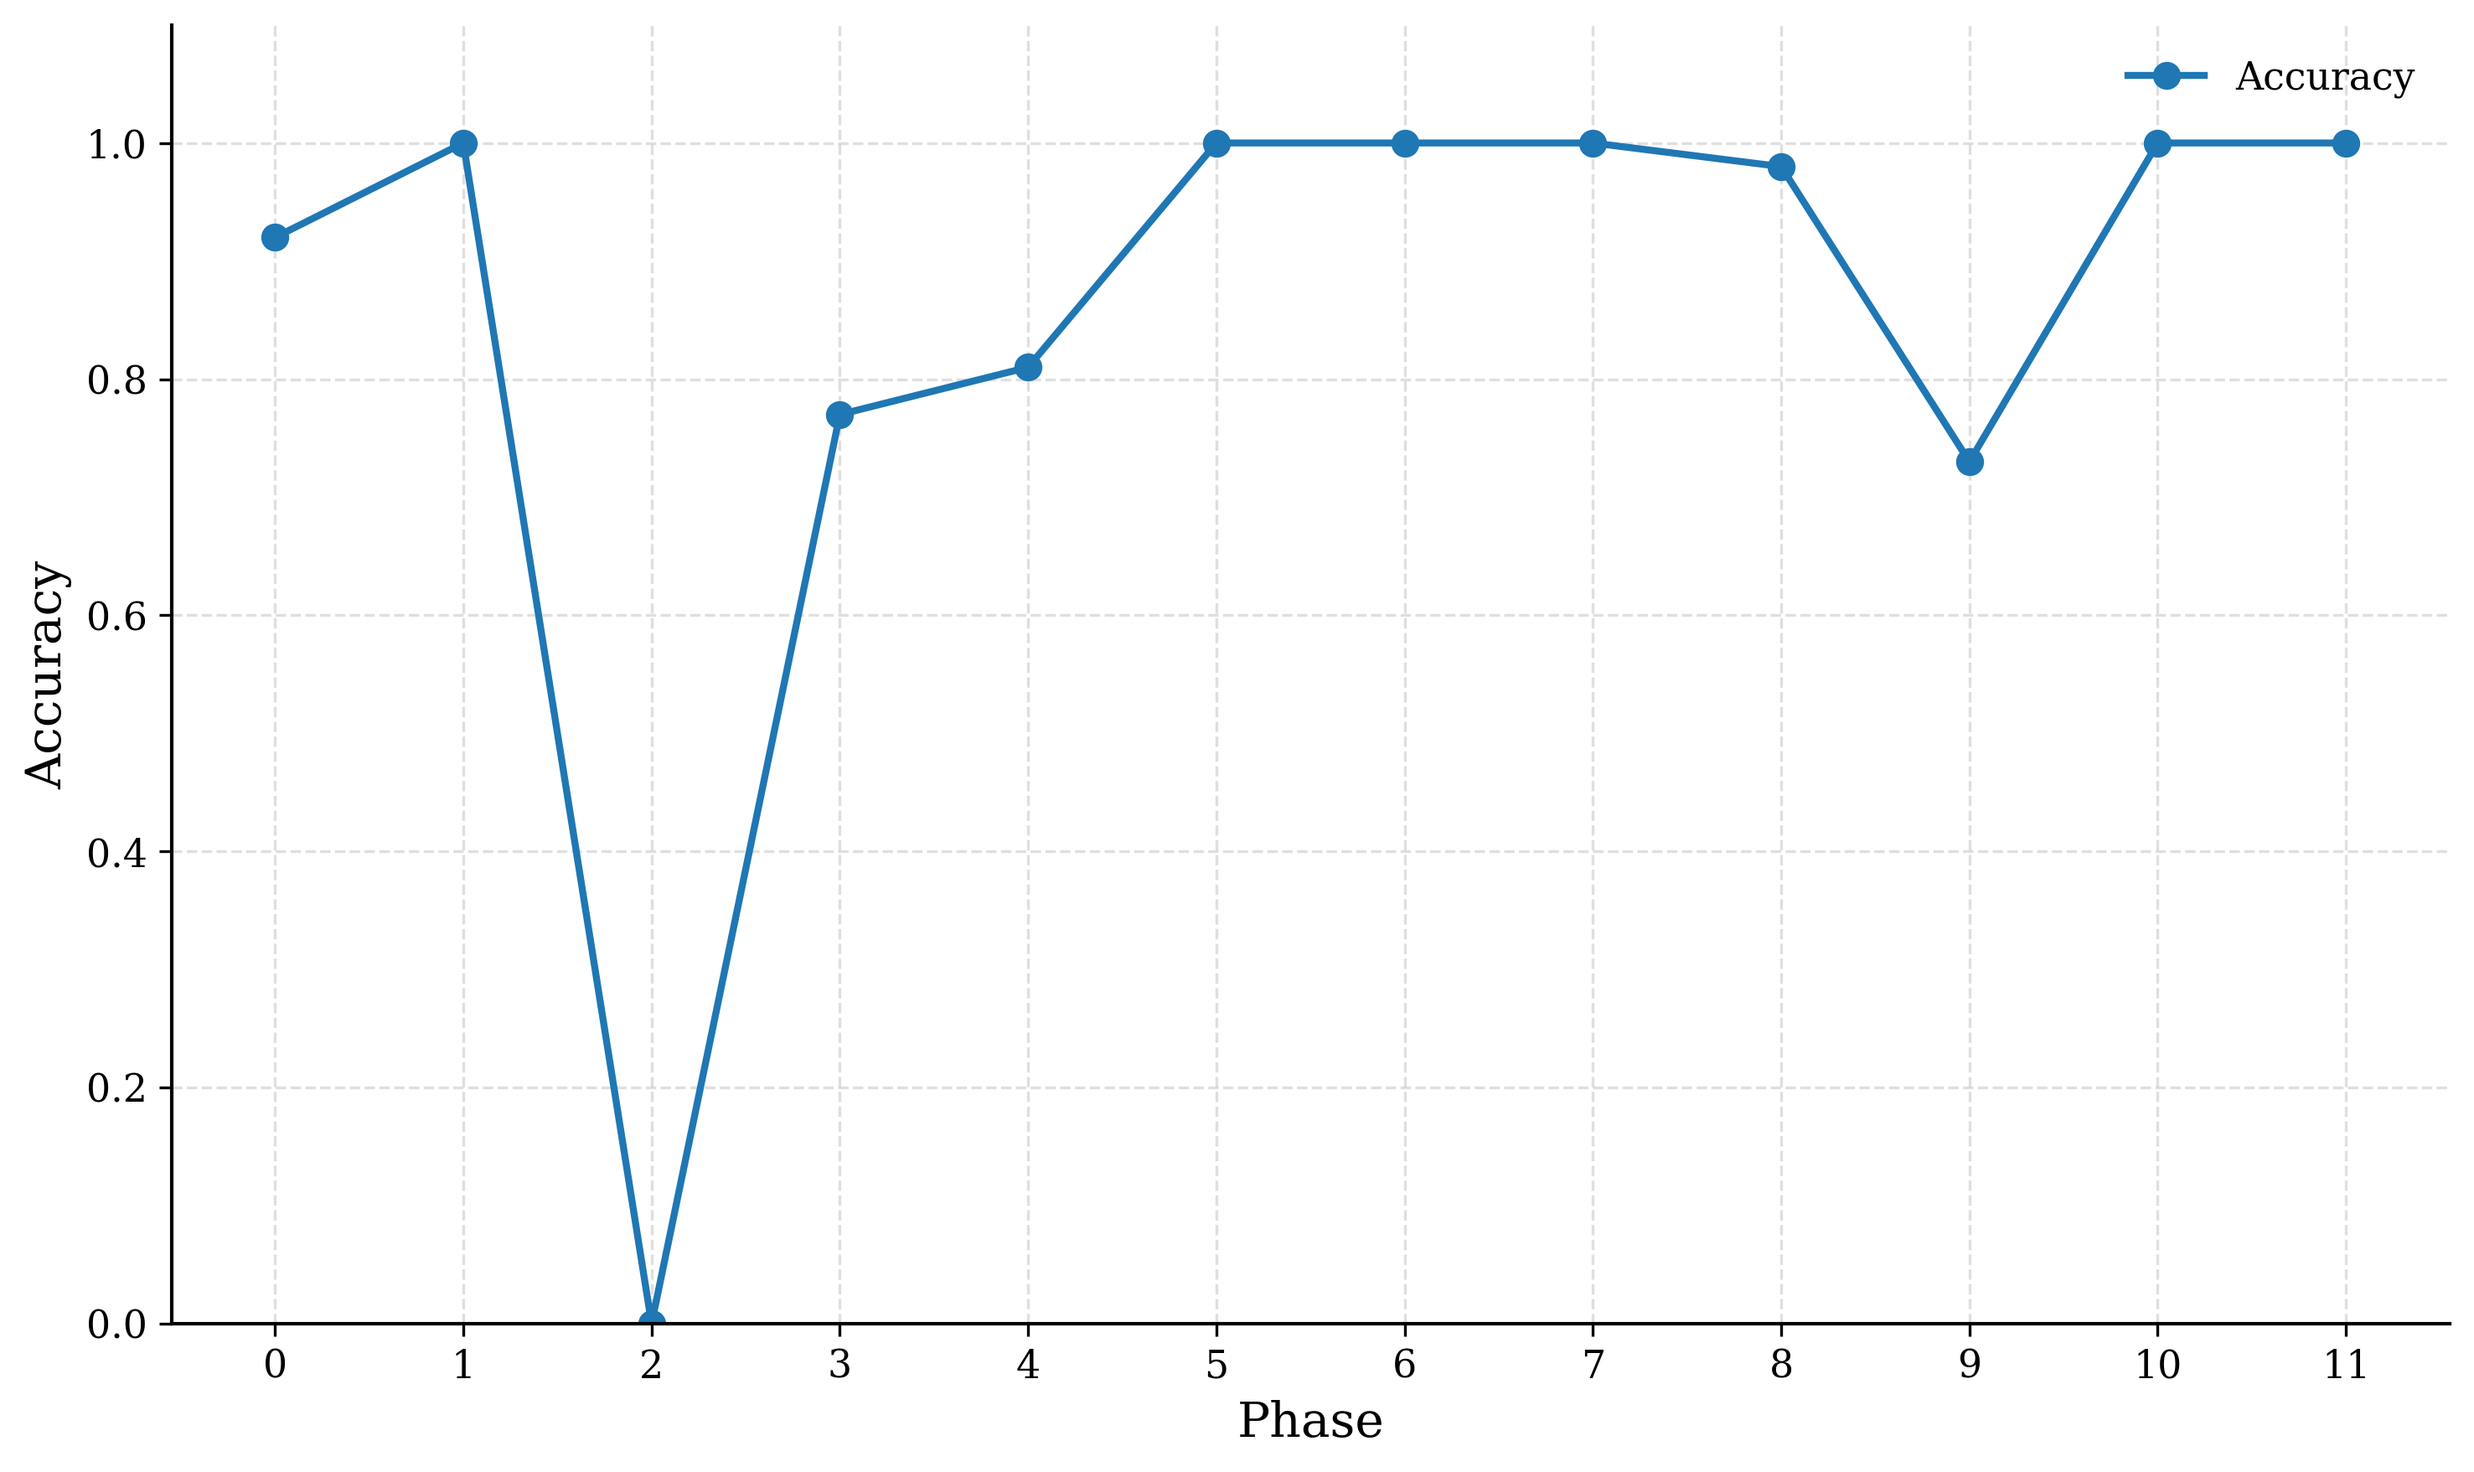
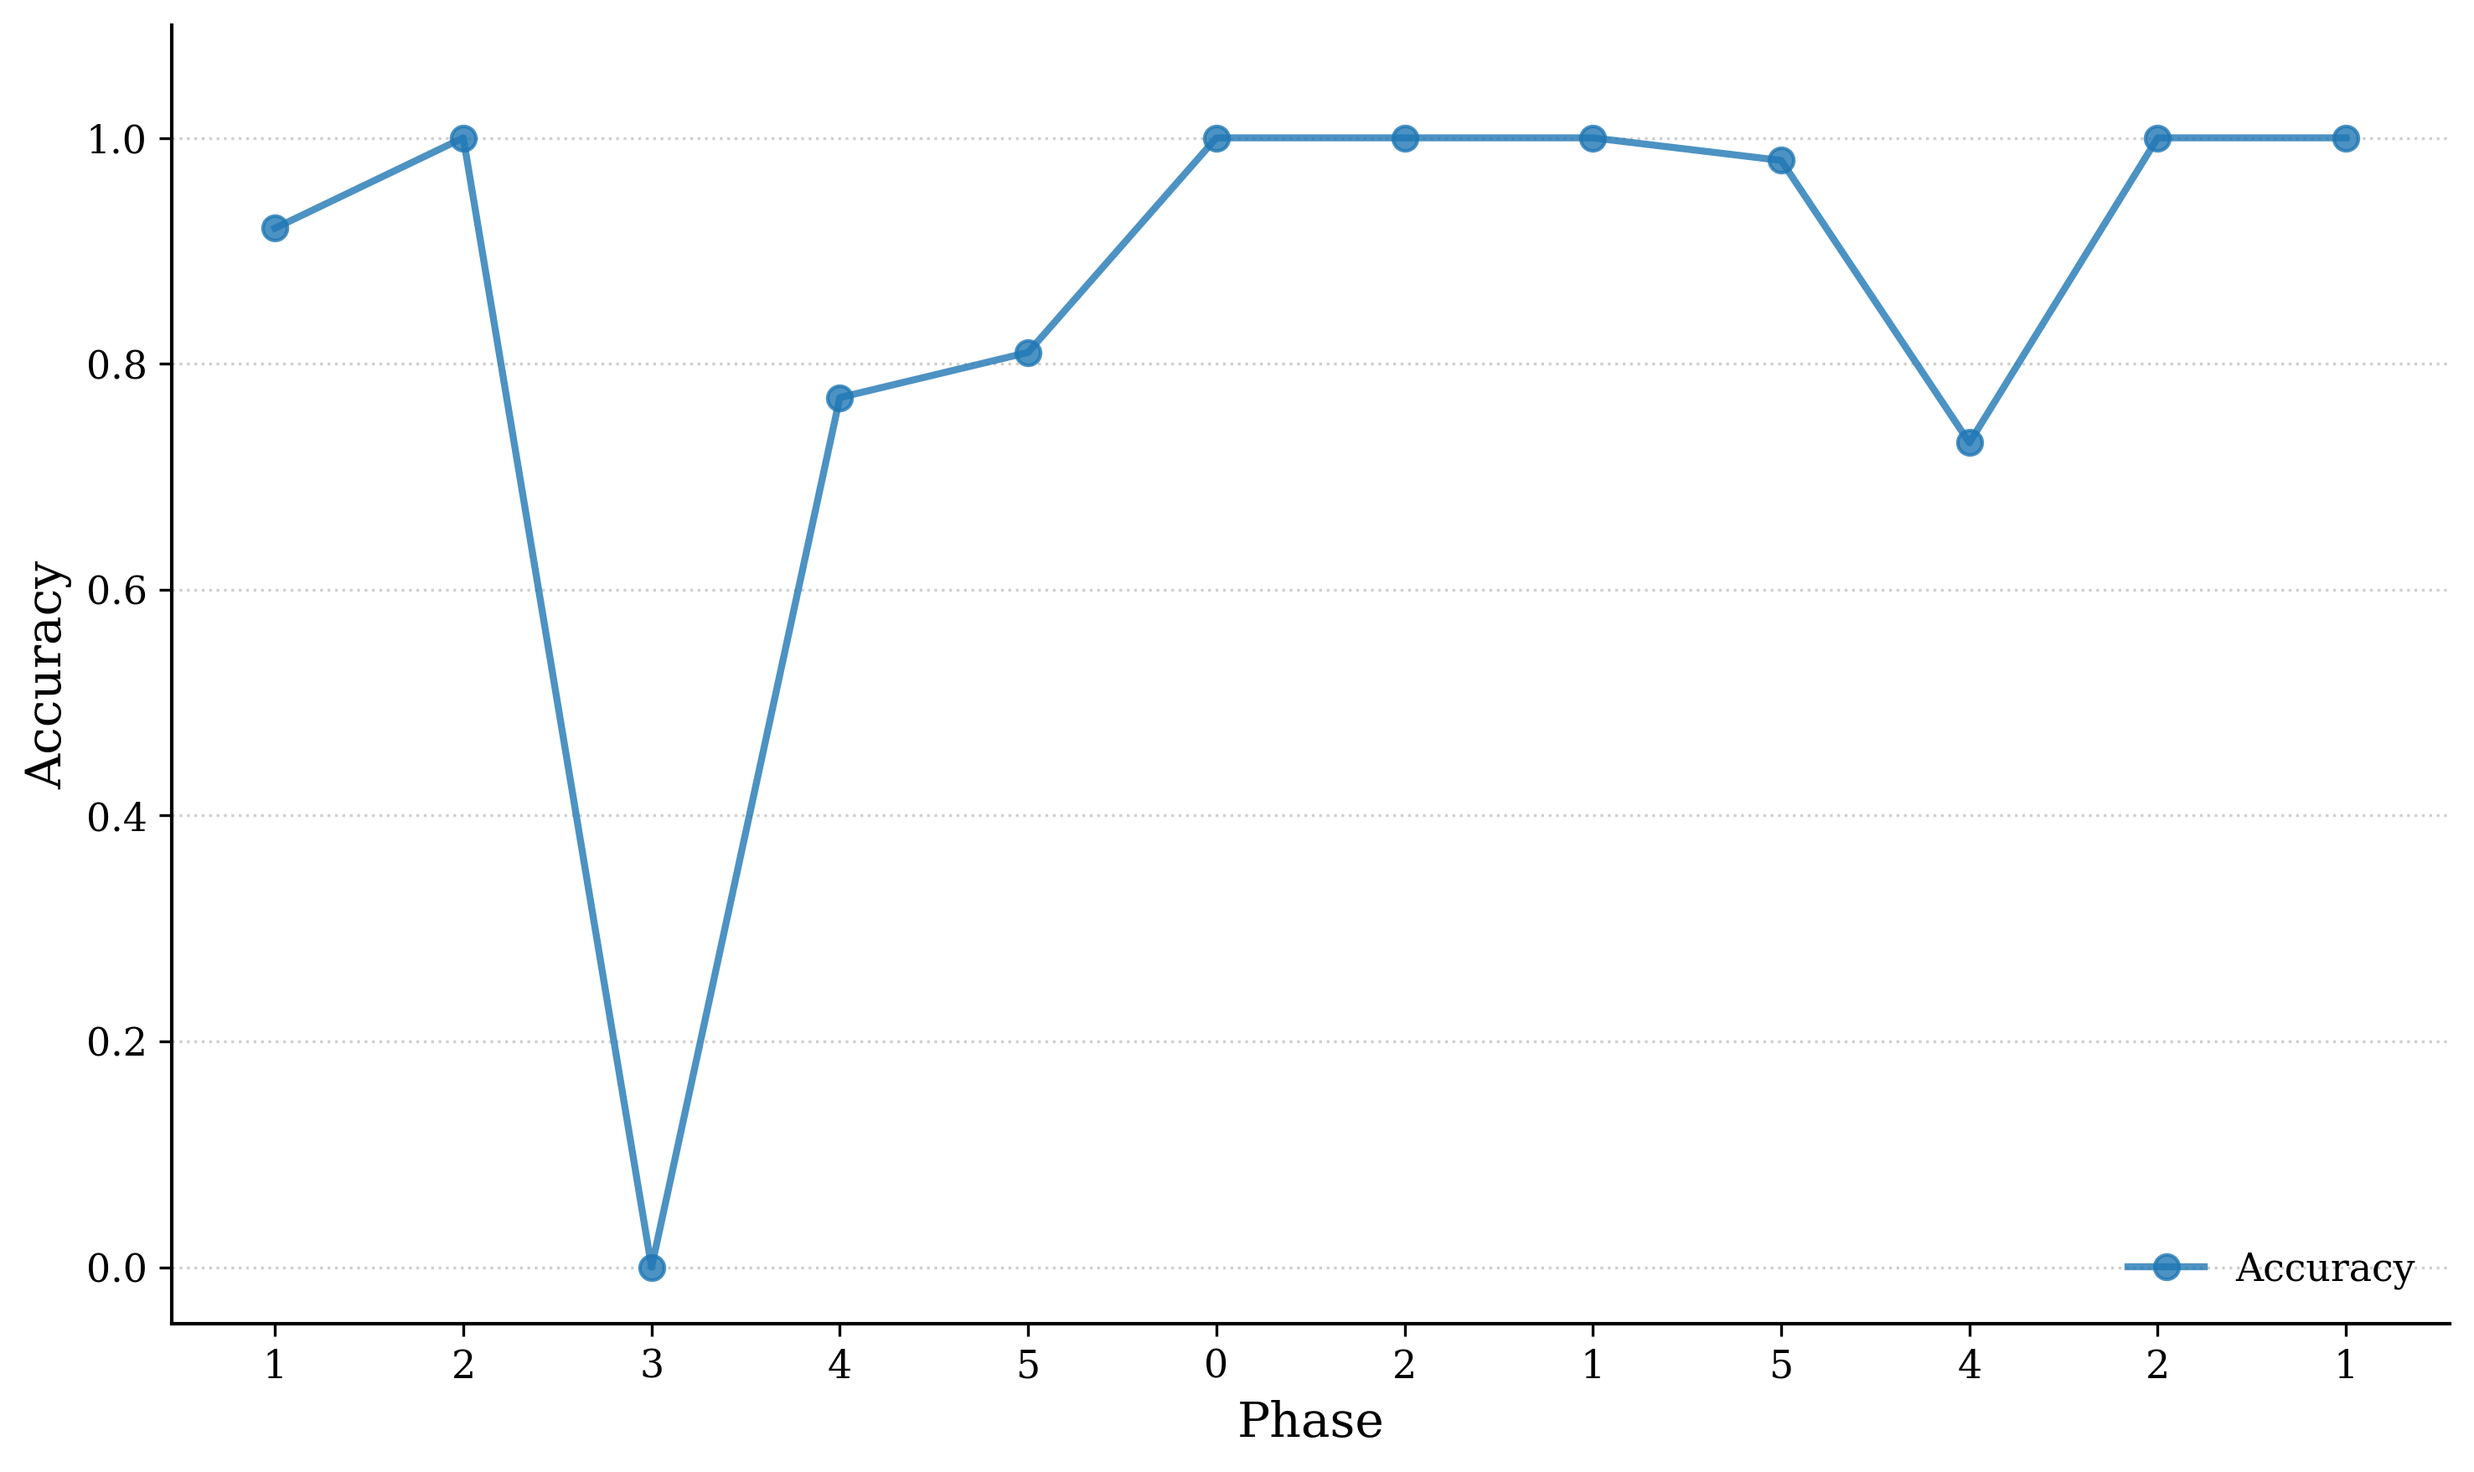
feat: fixed x ticks plotting

diff --git a/learning_agent/simulator.py b/learning_agent/simulator.py
@@ -322,7 +322,10 @@ def evaluate_model(
 
     }, curr_timeout
 
-def plot_accuracy(result: Dict[str, float], save_path: str = 'accuracy_plot.png') -> None:
+import matplotlib.pyplot as plt
+from typing import Dict, Tuple
+
+def plot_accuracy(result: Dict[Tuple[int, str], float], save_path: str = 'accuracy_plot.pdf') -> None:
     plt.rcParams.update({
         'font.family': 'serif',
         'font.serif': ['Times New Roman', 'DejaVu Serif'],
@@ -340,23 +343,36 @@ def plot_accuracy(result: Dict[str, float], save_path: str = 'accuracy_plot.png'
         'axes.spines.right': False
     })
     
-    phases = [str(p[1]) for p in list(result.keys())] 
-    accuracies = list(result.values())
-
-    x_positions = range(len(accuracies))
-
     fig, ax = plt.subplots()
     
-    ax.plot(x_positions, accuracies, marker='o', color='#1f77b4', linestyle='-', label='Accuracy')
+    sorted_items = sorted(result.items(), key=lambda item: item[0][0])
     
-    ax.set_xticks(x_positions)
+    phases = [str(k[1]) for k, v in sorted_items]
+    accuracies = [v for k, v in sorted_items]
+
+    x_coords = list(range(len(accuracies)))
+    single_color = '#1f77b4'
+
+    ax.plot(x_coords, accuracies, marker='o', linestyle='-', 
+            color=single_color, label='Accuracy', alpha=0.8)
     
-    ax.set_ylim(0, 1.1)
+    x_ticks = []
+    x_labels = []
+    
+    for i in range(len(accuracies)):
+        x_ticks.append(i)
+        x_labels.append(phases[i])
+
+            
+    ax.set_ylim(-0.05, 1.1)
     ax.set_xlabel('Phase')
     ax.set_ylabel('Accuracy')
 
-    ax.grid(True, linestyle='--', alpha=0.4)
-    ax.legend(frameon=False)
+    ax.set_xticks(x_ticks)
+    ax.set_xticklabels(x_labels)
+
+    ax.grid(True, linestyle=':', alpha=0.6, axis='y')
+    ax.legend(frameon=False, loc='lower right')
     
     plt.tight_layout()
     plt.savefig(save_path, dpi=300, bbox_inches='tight')
